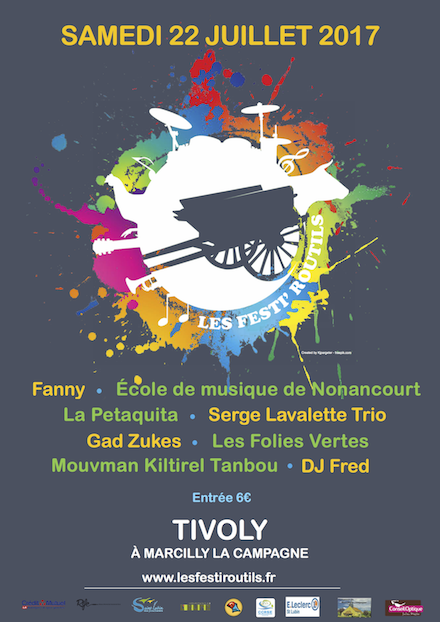
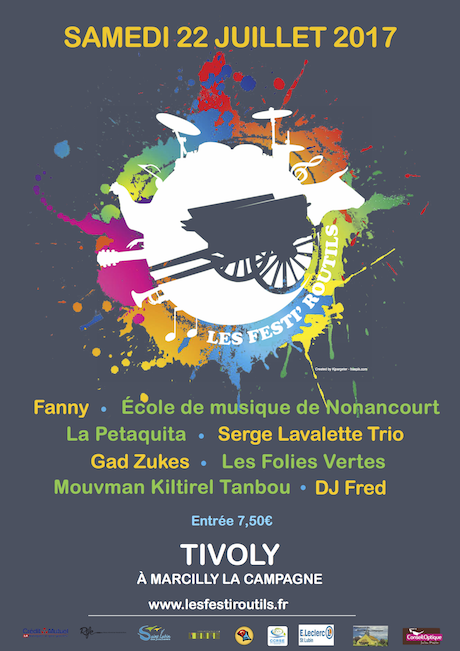
Modification du prix de l'entrée.

diff --git a/_includes/informations.html b/_includes/informations.html
@@ -4,7 +4,7 @@
             <div class="informations">
                 <h2 class="heading">Informations pratiques</h2>
                 <h3 style="text-align: center"><i class="fa fa-calendar"> </i><strong> Samedi 22 Juillet 2017</strong></h3>
-                <h4 style="text-align: center"><strong>Entrée 6€ , à partir de 18h</strong></h4>
+                <h4 style="text-align: center"><strong>Entrée 7,50€ , à partir de 18h</strong></h4>
                 <br/>
                 <p style="text-align: center">C'est donc le 16 Juillet 2017 qu'aura lieu cette année la onxième édition des "Festi'Routils". Comptant sur vous pour répondre présent et faire que cette belle aventure continue d'exister</p>
             </div>
